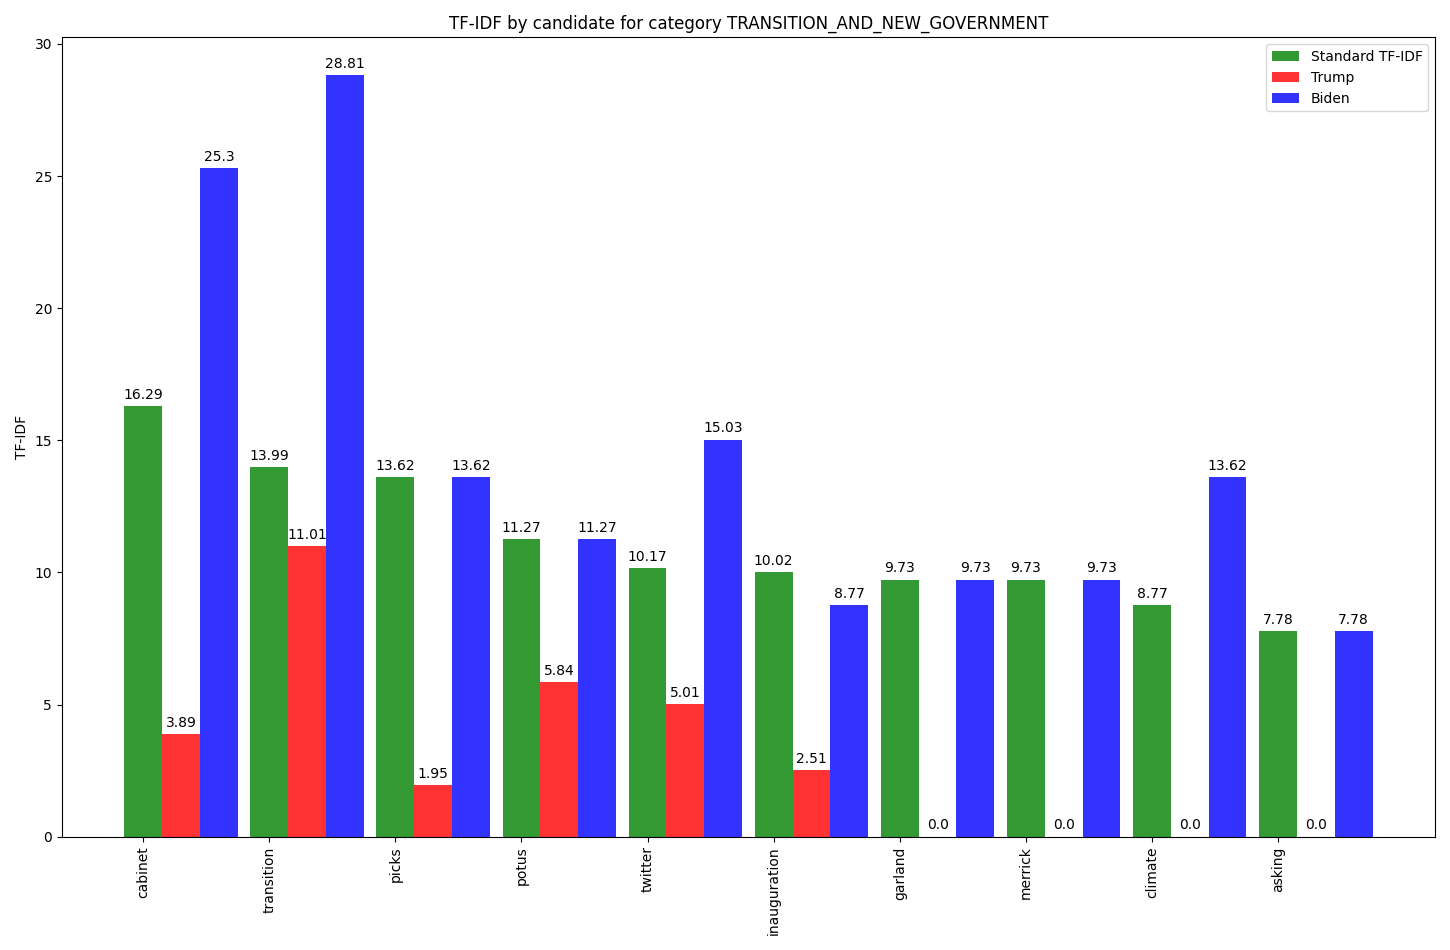
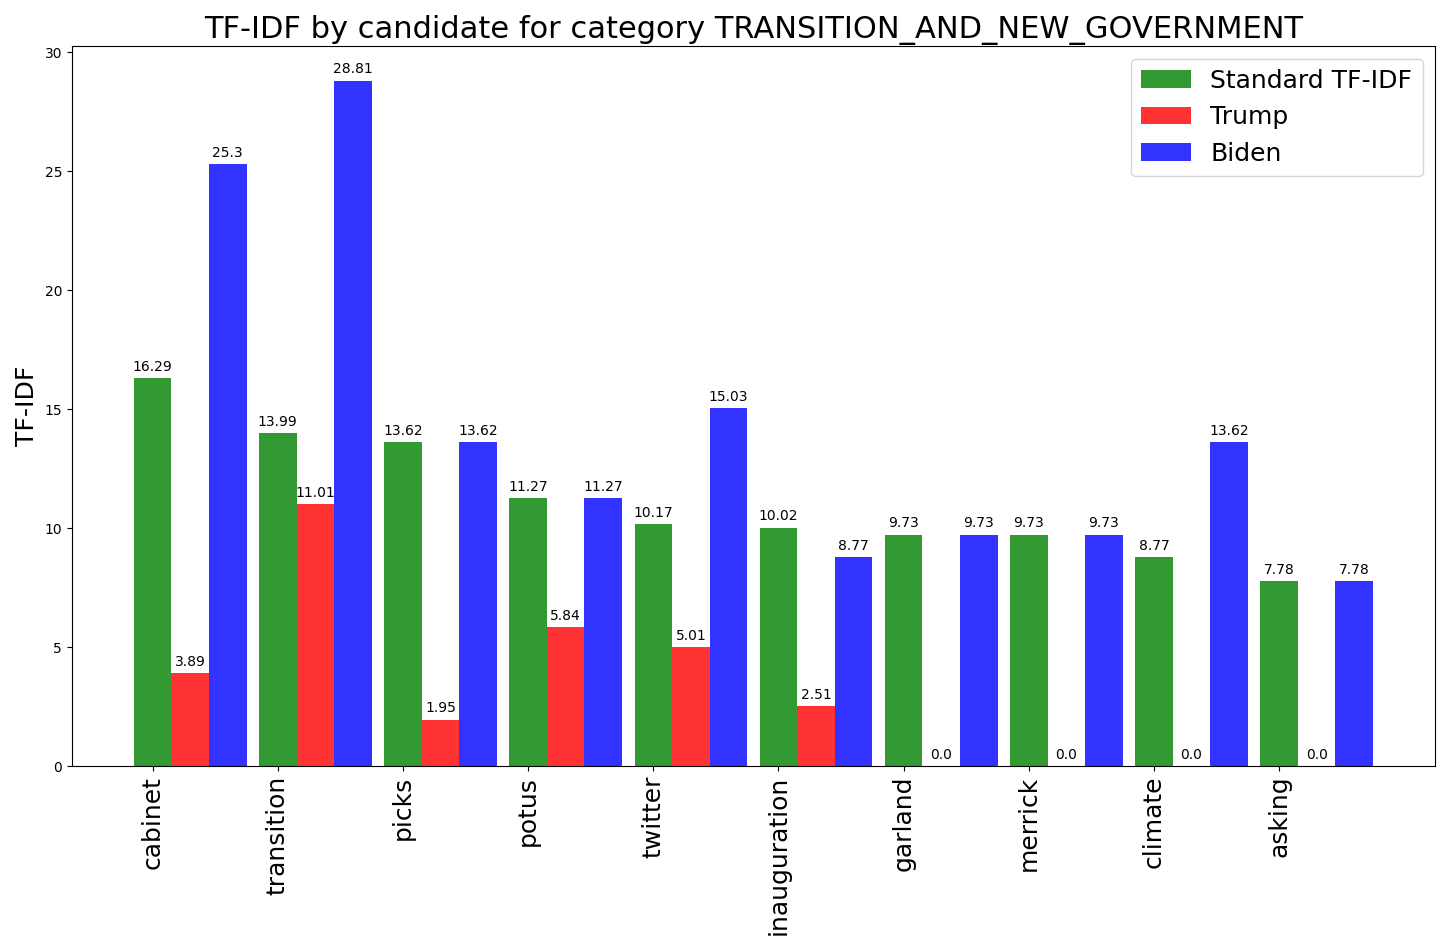
Increasing chart text font

diff --git a/scripts/compute_vectors_plot.py b/scripts/compute_vectors_plot.py
@@ -71,11 +71,11 @@ def plot_chart_by_category_candidates(category, std_tf_idf, trump, biden, words,
 
     ax.autoscale(enable=True, axis="both", tight=False)
 
-    ax.set_ylabel('TF-IDF')
-    ax.set_title(f'TF-IDF by {classifier} for category {category}')
+    ax.set_ylabel('TF-IDF', fontsize=18)
+    ax.set_title(f'TF-IDF by {classifier} for category {category}', fontsize=22)
     ax.set_xticks(r1)
-    ax.set_xticklabels(words, Rotation=90)
-    ax.legend()
+    ax.set_xticklabels(words, Rotation=90, fontsize=18)
+    ax.legend(fontsize=18)
 
     autolabel(rects1, ax)
     autolabel(rects2, ax)
